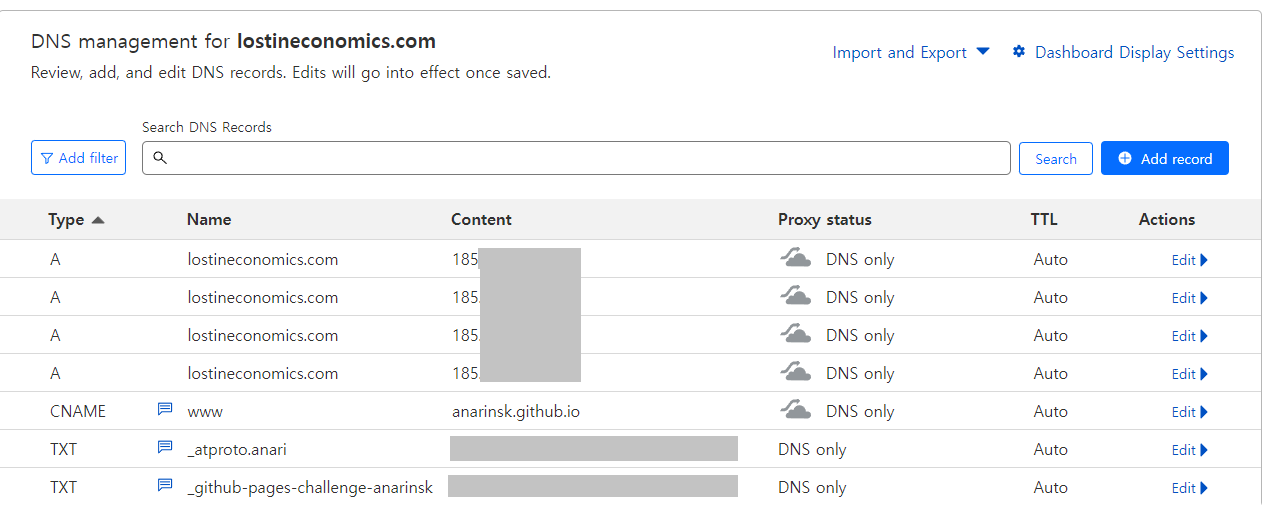
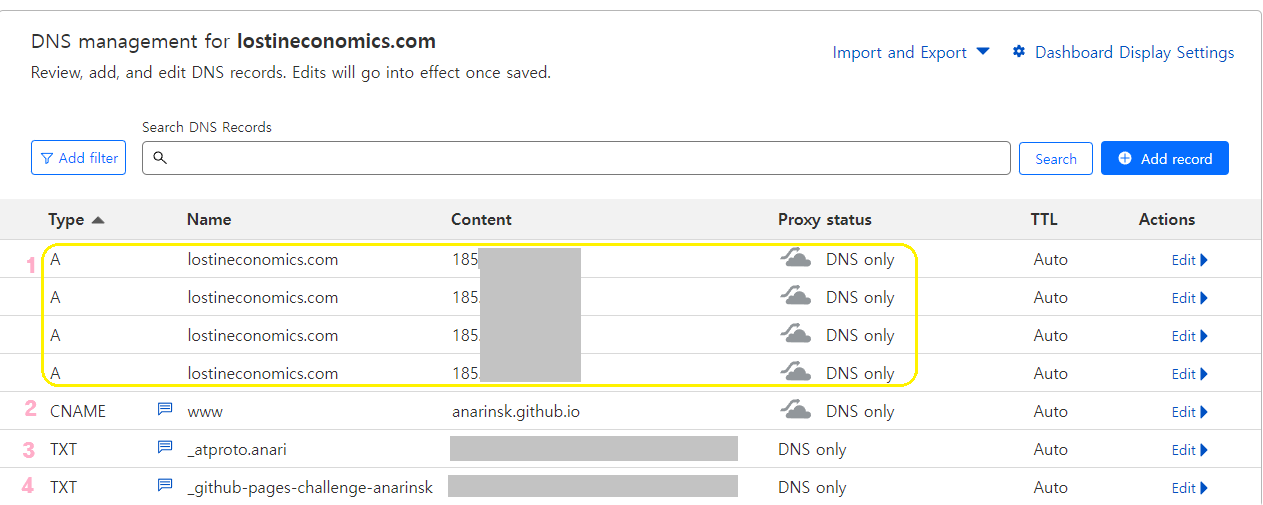
fix

diff --git a/docs/posts/computer-tool/2022-12-22-my-domains.html b/docs/posts/computer-tool/2022-12-22-my-domains.html
@@ -425,6 +425,12 @@ pre > code.sourceCode > span > a:first-child::before { text-decoration: underlin
 <p><a href="images\cloudflare.png" class="lightbox" data-gallery="quarto-lightbox-gallery-6"><img src="images\cloudflare.png" class="img-fluid figure-img"></a></p>
 </figure>
 </div>
+<ol type="1">
+<li><code>lostineconomics.com</code> → <code>www.lostineconomics.com</code> 으로 연결 <a href="#곁눈질-www가-없는-호출-포위딩하기">이동</a></li>
+<li><code>www.lostineconomics</code> → <code>anarinsk.github.io</code>로 연결 <a href="#도메인-연결-1-google-domains">이동</a></li>
+<li>Bluesky 핸들 사용을 위한 인증 텍스트 파일</li>
+<li>Github Pages 연결을 위한 인증 텍스트 파일 <a href="#도메인-확인하기-2-google-domains">이동</a></li>
+</ol>
 
 
 </section>
@@ -779,7 +785,7 @@ window.document.addEventListener("DOMContentLoaded", function (event) {
 });
 </script>
 </div> <!-- /content -->
-<script>var lightboxQuarto = GLightbox({"loop":true,"closeEffect":"zoom","openEffect":"zoom","descPosition":"bottom","selector":".lightbox"});</script>
+<script>var lightboxQuarto = GLightbox({"closeEffect":"zoom","loop":true,"openEffect":"zoom","selector":".lightbox","descPosition":"bottom"});</script>
 
 
 

diff --git a/docs/index.html b/docs/index.html
@@ -383,7 +383,7 @@ JS HUHH
 </a>
 </div>
 </div>
-<div class="quarto-post image-right" data-index="6" data-categories="computer-tool" data-listing-date-sort="1671634800000" data-listing-file-modified-sort="1692928532997" data-listing-date-modified-sort="NaN" data-listing-reading-time-sort="5">
+<div class="quarto-post image-right" data-index="6" data-categories="computer-tool" data-listing-date-sort="1671634800000" data-listing-file-modified-sort="1692935784518" data-listing-date-modified-sort="NaN" data-listing-reading-time-sort="5">
 <div class="thumbnail">
 <p><a href="./posts/computer-tool/2022-12-22-my-domains.html"> <img src="./posts/computer-tool/images/dns.jfif" class="thumbnail-image"> </a></p>
 </div>
